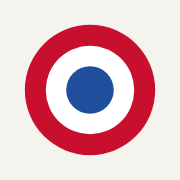
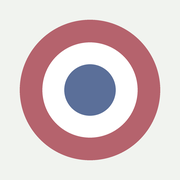
Visual identity v2: verdigris accent on stone paper, specimen hero, structured nav and footer

diff --git a/src/app.html b/src/app.html
@@ -3,8 +3,8 @@
 <meta charset="utf-8">
 <meta name="viewport" content="width=device-width, initial-scale=1, viewport-fit=cover">
 <meta name="color-scheme" content="light dark">
-<meta name="theme-color" content="#f5f3ee" media="(prefers-color-scheme: light)">
-<meta name="theme-color" content="#141518" media="(prefers-color-scheme: dark)">
+<meta name="theme-color" content="#f1f3ef" media="(prefers-color-scheme: light)">
+<meta name="theme-color" content="#111716" media="(prefers-color-scheme: dark)">
 <title>Legere - De quels candidats êtes-vous proche ? Présidentielle 2027</title>
 <meta name="description" content="Répondez à une vingtaine de propositions concrètes et découvrez de quels candidats à la présidentielle 2027 vous êtes le plus proche, et pourquoi. Sans inscription : vos réponses restent dans votre navigateur.">
 <link rel="canonical" href="https://legere.vandecatsije.com/">
@@ -42,48 +42,60 @@
 @font-face { font-family: "IBM Plex Sans"; font-style: italic; font-weight: 400; font-display: swap; src: url("fonts/plexsans-400i-latin.woff2") format("woff2"); unicode-range: U+0000-00FF, U+0131, U+0152-0153, U+02BB-02BC, U+02C6, U+02DA, U+02DC, U+0304, U+0308, U+0329, U+2000-206F, U+20AC, U+2122, U+2191, U+2193, U+2212, U+2215, U+FEFF, U+FFFD; }
 @font-face { font-family: "IBM Plex Sans"; font-style: italic; font-weight: 400; font-display: swap; src: url("fonts/plexsans-400i-latin-ext.woff2") format("woff2"); unicode-range: U+0100-02BA, U+02BD-02C5, U+02C7-02CC, U+02CE-02D7, U+02DD-02FF, U+0304, U+0308, U+0329, U+1D00-1DBF, U+1E00-1E9F, U+1EF2-1EFF, U+2020, U+20A0-20AB, U+20AD-20C0, U+2113, U+2C60-2C7F, U+A720-A7FF; }
 
-/* "Le bulletin": ink on paper, one narrow column, one question per screen.
-   The tricolore appears exactly twice, decoratively and symmetrically (the ribbon at the top edge and the cockade in the mark).
-   Every interactive element, every candidate and every score uses the same ink, so no colour ever maps onto a side. */
+/* "Le bulletin": ink on stone paper, one narrow column, one question per screen.
+   One accent, a verdigris teal (the patina of the Mariannes in town halls), marks only what the visitor does:
+   the primary button, the progress bar, the selected answer, focus. No French party owns that hue.
+   Candidates, scores and the answer scale stay in the ink family, so no colour ever maps onto a side.
+   The tricolore appears exactly twice, desaturated and decorative (the ribbon at the top edge and the cockade in the mark). */
 :root {
-  --paper: #f5f3ee;
+  --paper: #f1f3ef;
   --card: #ffffff;
-  --ink: #1b1d22;
-  --muted: #5d6168;
-  --line: #d8d6cf;
-  --soft: #ebe9e2;
-  --accent: #1b1d22;
-  --accent-ink: #f5f3ee;
-  --accent-soft: #e6e4dd;
-  --bleu: #1f4f9c;
+  --ink: #15201f;
+  --muted: #56625f;
+  --line: #d4dbd6;
+  --soft: #e5eae6;
+  --accent: #176b64;
+  --accent-ink: #ffffff;
+  --accent-soft: #dceee9;
+  --accent-strong: #11554f;
+  --accent-text: #146059;
+  --warn: #7a5a22;
+  --warn-soft: #f4ecd9;
+  --bleu: #5b6f99;
   --blanc: #ffffff;
-  --rouge: #c8102e;
+  --rouge: #b5636d;
+  --shadow: 0 1px 2px rgba(21, 32, 31, .06), 0 8px 24px -12px rgba(21, 32, 31, .18);
   --serif: "Spectral", Georgia, "Times New Roman", serif;
   --sans: "IBM Plex Sans", system-ui, -apple-system, "Segoe UI", sans-serif;
   --r: 12px;
+  --r-lg: 18px;
   --tap: 52px;
   color-scheme: light;
 }
 @media (prefers-color-scheme: dark) {
   :root:not([data-theme="light"]) {
-    --paper: #141518; --card: #1d1f24; --ink: #ecebe6; --muted: #a3a6ad; --line: #34373d; --soft: #24262c;
-    --accent: #ecebe6; --accent-ink: #141518; --accent-soft: #2d2f36;
-    --bleu: #3f6fc4; --blanc: #d9d7d0; --rouge: #d6394a;
+    --paper: #111716; --card: #192120; --ink: #e8ece9; --muted: #9faba6; --line: #2b3634; --soft: #1e2826;
+    --accent: #6fcbc1; --accent-ink: #0b1f1d; --accent-soft: #1a3330; --accent-strong: #8ddad1; --accent-text: #7fd3c9;
+    --warn: #d9b66c; --warn-soft: #2d2718;
+    --bleu: #7287b1; --blanc: #cfd5d0; --rouge: #bb717a;
+    --shadow: 0 1px 2px rgba(0, 0, 0, .3), 0 8px 24px -12px rgba(0, 0, 0, .6);
     color-scheme: dark;
   }
 }
 :root[data-theme="dark"] {
-  --paper: #141518; --card: #1d1f24; --ink: #ecebe6; --muted: #a3a6ad; --line: #34373d; --soft: #24262c;
-  --accent: #ecebe6; --accent-ink: #141518; --accent-soft: #2d2f36;
-  --bleu: #3f6fc4; --blanc: #d9d7d0; --rouge: #d6394a;
+  --paper: #111716; --card: #192120; --ink: #e8ece9; --muted: #9faba6; --line: #2b3634; --soft: #1e2826;
+  --accent: #6fcbc1; --accent-ink: #0b1f1d; --accent-soft: #1a3330; --accent-strong: #8ddad1; --accent-text: #7fd3c9;
+  --warn: #d9b66c; --warn-soft: #2d2718;
+  --bleu: #7287b1; --blanc: #cfd5d0; --rouge: #bb717a;
+  --shadow: 0 1px 2px rgba(0, 0, 0, .3), 0 8px 24px -12px rgba(0, 0, 0, .6);
   color-scheme: dark;
 }
 * { box-sizing: border-box; }
 html { -webkit-text-size-adjust: 100%; }
-body { margin: 0; background: var(--paper); color: var(--ink); font: 400 17px/1.5 var(--sans); min-height: 100dvh; display: flex; flex-direction: column; }
+body { margin: 0; background: var(--paper); color: var(--ink); font: 400 17px/1.5 var(--sans); min-height: 100dvh; display: flex; flex-direction: column; -webkit-font-smoothing: antialiased; }
 button { font: inherit; color: inherit; }
 img { display: block; max-width: 100%; }
-.ribbon { display: grid; grid-template-columns: 1fr 1fr 1fr; height: 5px; flex: none; }
+.ribbon { display: grid; grid-template-columns: 1fr 1fr 1fr; height: 4px; flex: none; }
 .ribbon i:nth-child(1) { background: var(--bleu); }
 .ribbon i:nth-child(2) { background: var(--blanc); }
 .ribbon i:nth-child(3) { background: var(--rouge); }
@@ -104,79 +116,111 @@ a { color: var(--ink); text-decoration: underline; text-decoration-color: var(--
 .label { font: 500 14px/1.35 var(--sans); color: var(--muted); }
 .num { font-variant-numeric: tabular-nums; }
 .sr { position: absolute; width: 1px; height: 1px; overflow: hidden; clip: rect(0 0 0 0); white-space: nowrap; }
-:focus-visible { outline: 2px solid var(--ink); outline-offset: 3px; }
+:focus-visible { outline: 2px solid var(--accent); outline-offset: 3px; }
 
 /* top bars */
-.top { display: flex; align-items: center; justify-content: space-between; gap: 12px; min-height: 64px; padding: 10px 0; }
-.brand { display: inline-flex; align-items: center; gap: 9px; font: 600 22px/1 var(--serif); letter-spacing: .005em; background: none; border: 0; padding: 8px 0; cursor: pointer; color: var(--ink); }
-.cockade { width: 22px; height: 22px; flex: none; }
-nav.links { display: flex; gap: 2px; }
-nav.links button { background: none; border: 0; padding: 10px 10px; min-height: 44px; color: var(--muted); font: 500 15px var(--sans); cursor: pointer; border-radius: 8px; }
-nav.links button[aria-current="page"] { color: var(--ink); }
+.top { display: flex; flex-wrap: wrap; align-items: center; justify-content: space-between; gap: 0 12px; min-height: 68px; padding: 12px 0; }
+.top nav.links { margin-left: auto; }
+.brand { display: inline-flex; align-items: center; gap: 10px; font: 600 23px/1 var(--serif); letter-spacing: .005em; background: none; border: 0; padding: 8px 0; cursor: pointer; color: var(--ink); }
+.cockade { width: 24px; height: 24px; flex: none; }
+nav.links { display: flex; gap: 4px; }
+nav.links button { background: none; border: 0; padding: 10px 12px; min-height: 44px; color: var(--muted); font: 500 15px var(--sans); cursor: pointer; border-radius: 999px; }
+nav.links button[aria-current="page"] { color: var(--accent-text); background: var(--accent-soft); }
 nav.links button { white-space: nowrap; }
 nav.links .short { display: none; }
-@media (max-width: 440px) { nav.links .full { display: none; } nav.links .short { display: inline; } }
-.qbar { display: flex; align-items: center; gap: 10px; min-height: 64px; padding: 10px 0; }
+@media (max-width: 480px) { nav.links .full { display: none; } nav.links .short { display: inline; } nav.links button { padding: 10px 10px; } }
+.qbar { display: flex; align-items: center; gap: 10px; min-height: 68px; padding: 12px 0; }
 .qbar .progress { flex: 1; }
 .icon-btn { width: 44px; height: 44px; border-radius: 50%; border: 0; background: transparent; cursor: pointer; display: grid; place-items: center; color: var(--ink); flex: none; }
 .icon-btn:disabled { opacity: .3; cursor: default; background: none; }
 .icon-btn svg { width: 24px; height: 24px; }
-.progress { height: 5px; background: var(--line); border-radius: 3px; overflow: hidden; }
-.progress > i { display: block; height: 100%; background: var(--ink); border-radius: 3px; transition: width .35s ease; }
+.progress { height: 6px; background: var(--line); border-radius: 3px; overflow: hidden; }
+.progress > i { display: block; height: 100%; background: var(--accent); border-radius: 3px; transition: width .35s ease; }
 .count { font: 500 14px var(--sans); color: var(--muted); min-width: 2.5ch; text-align: right; }
 
 /* buttons */
 .btn { appearance: none; border: 1.5px solid var(--ink); background: var(--ink); color: var(--paper); font: 600 17px var(--sans); min-height: var(--tap); padding: 12px 22px; border-radius: var(--r); cursor: pointer; width: 100%; display: inline-flex; align-items: center; justify-content: center; gap: 8px; text-align: center; }
 .btn.primary { background: var(--accent); border-color: var(--accent); color: var(--accent-ink); }
-.btn.ghost { background: transparent; color: var(--ink); border-color: var(--line); font-weight: 500; }
+.btn.ghost { background: var(--card); color: var(--ink); border-color: var(--line); font-weight: 500; }
 .btn.link { background: none; border: 0; color: var(--ink); text-decoration: underline; text-decoration-color: var(--muted); text-underline-offset: 3px; min-height: 44px; width: auto; padding: 8px 4px; font-weight: 500; }
 .btn:disabled { opacity: .45; cursor: default; }
 .btn.auto { width: auto; }
+.btn svg { width: 20px; height: 20px; flex: none; }
 
 /* answer options */
-.opts { display: flex; flex-direction: column; gap: 7px; }
+.opts { display: flex; flex-direction: column; gap: 8px; }
 .opt { width: 100%; min-height: var(--tap); border: 1.5px solid var(--line); background: var(--card); color: var(--ink); border-radius: var(--r); padding: 12px 16px; font: 500 17px/1.3 var(--sans); cursor: pointer; display: flex; align-items: center; gap: 14px; text-align: left; transition: border-color .12s, background .12s; }
-.opt .dot { width: 22px; height: 22px; border-radius: 50%; border: 2px solid var(--muted); flex: none; display: grid; place-items: center; }
+.opt .dot { width: 22px; height: 22px; border-radius: 50%; border: 2px solid var(--line); flex: none; display: grid; place-items: center; background: var(--card); }
 .opt .dot::after { content: ""; width: 10px; height: 10px; border-radius: 50%; background: transparent; }
-.opt.on { border-color: var(--ink); background: var(--accent-soft); }
-.opt.on .dot { border-color: var(--ink); }
-.opt.on .dot::after { background: var(--ink); }
+.opt.on { border-color: var(--accent); background: var(--accent-soft); box-shadow: inset 0 0 0 1px var(--accent); }
+.opt.on .dot { border-color: var(--accent); }
+.opt.on .dot::after { background: var(--accent); }
 .opt .sub { display: block; font-size: 14.5px; color: var(--muted); font-weight: 400; margin-top: 2px; }
 .opt .key { margin-left: auto; font: 500 12px var(--sans); color: var(--muted); border: 1px solid var(--line); border-radius: 5px; padding: 1px 6px; }
 .opt.lvl { flex: 1; justify-content: center; min-height: 44px; padding: 8px 6px; font-size: 15px; }
 .chip { border: 1.5px solid var(--line); background: var(--card); color: var(--muted); border-radius: 999px; padding: 10px 16px; min-height: 44px; font: 500 15px var(--sans); cursor: pointer; display: inline-flex; align-items: center; gap: 8px; }
 .chip svg { width: 18px; height: 18px; }
-.chip.on { border-color: var(--ink); color: var(--ink); background: var(--accent-soft); }
+.chip.on { border-color: var(--accent); color: var(--accent-text); background: var(--accent-soft); }
 .under { display: flex; justify-content: space-between; align-items: center; gap: 8px; flex-wrap: wrap; }
 
 /* statement */
-.q { display: flex; flex-direction: column; gap: 14px; animation: enter .22s ease-out; }
+.q { display: flex; flex-direction: column; gap: 16px; animation: enter .22s ease-out; }
 @keyframes enter { from { opacity: 0; transform: translateY(8px); } to { opacity: 1; transform: none; } }
-.statement { font: 400 clamp(22px, 5.6vw, 28px)/1.3 var(--serif); text-wrap: pretty; }
+.q > .label { display: inline-flex; align-self: flex-start; align-items: center; gap: 8px; color: var(--ink); font-weight: 500; }
+.q > .label::before { content: ""; width: 8px; height: 8px; border-radius: 50%; background: var(--accent); }
+.statement { font: 400 clamp(23px, 5.8vw, 29px)/1.3 var(--serif); text-wrap: pretty; }
 .term { cursor: pointer; -webkit-box-decoration-break: clone; box-decoration-break: clone; text-decoration: underline dotted var(--muted); text-decoration-thickness: 2px; text-underline-offset: 4px; border-radius: 3px; }
-.plain { background: var(--soft); border-radius: var(--r); padding: 12px 14px; display: flex; flex-direction: column; gap: 4px; font-size: 15.5px; line-height: 1.42; }
-.plain .label { color: var(--ink); font-weight: 600; font-size: 14px; }
+.plain { background: var(--card); border: 1px solid var(--line); border-left: 3px solid var(--accent); border-radius: 0 var(--r) var(--r) 0; padding: 12px 16px; display: flex; flex-direction: column; gap: 4px; font-size: 15.5px; line-height: 1.42; }
+.plain .label { color: var(--accent-text); font-weight: 600; font-size: 14px; }
 .plain .more { align-self: flex-start; background: none; border: 0; padding: 6px 0; color: var(--ink); font: 500 15px var(--sans); cursor: pointer; text-decoration: underline; text-decoration-color: var(--muted); text-underline-offset: 3px; min-height: 36px; }
 .kbd-hint { font-size: 13.5px; color: var(--muted); text-align: center; }
 kbd { font: 12px var(--sans); border: 1px solid var(--line); border-bottom-width: 2px; border-radius: 4px; padding: 0 5px; color: var(--muted); }
 
 /* home */
-.hero { display: flex; flex-direction: column; gap: 18px; padding-top: 18px; }
-.hero h1 { font-size: clamp(32px, 8.4vw, 46px); line-height: 1.08; }
-.hero .intro { font-size: 18px; }
+.hero { display: flex; flex-direction: column; gap: 18px; padding-top: 22px; }
+.hero h1 { font-size: clamp(34px, 8.6vw, 48px); line-height: 1.06; letter-spacing: -.01em; }
+.hero .intro { font-size: 18px; max-width: 34em; }
+.hero .cta { display: flex; flex-direction: column; gap: 10px; align-items: center; }
+.hero .cta .btn { max-width: 420px; }
+.hero .cta .small { text-align: center; }
+/* the specimen: one real proposition laid out as the slip the visitor will answer, stacked like a pile of bulletins */
+.specimen { position: relative; margin: 10px 0 6px; padding: 0 10px; }
+.specimen .slip { background: var(--card); border: 1px solid var(--line); border-radius: var(--r-lg); padding: 20px 22px 18px; display: flex; flex-direction: column; gap: 14px; box-shadow: var(--shadow); position: relative; }
+.specimen .slip::before, .specimen .slip::after { content: ""; position: absolute; inset: 0; z-index: -1; background: var(--card); border: 1px solid var(--line); border-radius: var(--r-lg); }
+.specimen .slip::before { transform: rotate(-2.4deg) translate(-8px, 6px); background: var(--soft); }
+.specimen .slip::after { transform: rotate(1.8deg) translate(8px, 10px); background: var(--paper); }
+.specimen .slip > .label { color: var(--accent-text); font-weight: 600; display: inline-flex; align-items: center; gap: 8px; }
+.specimen .slip > .label::before { content: ""; width: 8px; height: 8px; border-radius: 50%; background: var(--accent); }
+.specimen .text { font: 400 clamp(20px, 5vw, 24px)/1.3 var(--serif); text-wrap: pretty; }
+.specimen .scale { display: flex; align-items: center; gap: 10px; padding-top: 4px; }
+.specimen .scale span { font: 500 13.5px var(--sans); color: var(--muted); }
+.specimen .scale .dots { display: flex; gap: 6px; flex: 1; justify-content: center; }
+.specimen .scale i { width: 18px; height: 18px; border-radius: 50%; border: 2px solid var(--line); background: var(--card); }
+.specimen .scale i.on { border-color: var(--accent); background: var(--accent); box-shadow: inset 0 0 0 3px var(--card); }
+.steps { list-style: none; margin: 0; padding: 0; display: flex; flex-direction: column; gap: 14px; counter-reset: step; }
+.steps li { display: grid; grid-template-columns: 34px 1fr; gap: 14px; align-items: start; font-size: 16px; counter-increment: step; }
+.steps li::before { content: counter(step); width: 34px; height: 34px; border-radius: 50%; background: var(--accent-soft); color: var(--accent-text); font: 600 15px/34px var(--serif); text-align: center; }
+.steps b { display: block; font-weight: 600; }
 .facts { list-style: none; margin: 0; padding: 0; display: flex; flex-direction: column; gap: 10px; }
-.facts li { display: flex; gap: 12px; align-items: flex-start; font-size: 16px; }
-.facts svg { width: 22px; height: 22px; flex: none; margin-top: 2px; color: var(--muted); }
+.facts li { display: flex; gap: 12px; align-items: flex-start; font-size: 15.5px; color: var(--muted); }
+.facts svg { width: 20px; height: 20px; flex: none; margin-top: 2px; color: var(--accent-text); }
+.home-sec { display: flex; flex-direction: column; gap: 14px; padding-top: 36px; }
+.home-sec h2 { font-size: 22px; }
 .card { background: var(--card); border: 1px solid var(--line); border-radius: var(--r); padding: 18px; display: flex; flex-direction: column; gap: 12px; min-width: 0; }
 .card.soft { background: var(--soft); border-color: transparent; }
+.card.resume { border-color: var(--accent); box-shadow: var(--shadow); }
+.card.resume > .label { color: var(--accent-text); font-weight: 600; }
 .note { background: var(--soft); border-left: 3px solid var(--ink); border-radius: 0 var(--r) var(--r) 0; padding: 12px 14px; font-size: 15px; }
+.note.warn { background: var(--warn-soft); border-left-color: var(--warn); }
 
 /* footer */
-.foot { border-top: 1px solid var(--line); margin-top: 40px; padding: 22px 0 8px; display: flex; flex-direction: column; gap: 10px; font-size: 14px; color: var(--muted); }
-.foot nav { display: flex; flex-wrap: wrap; gap: 4px 18px; }
-.foot nav button { background: none; border: 0; padding: 6px 0; min-height: 36px; color: var(--ink); font: 500 14.5px var(--sans); cursor: pointer; text-decoration: underline; text-decoration-color: var(--muted); text-underline-offset: 3px; }
-.foot .mark { display: inline-flex; align-items: center; gap: 8px; color: var(--ink); font: 600 15px var(--serif); }
-.foot .mark .cockade { width: 16px; height: 16px; }
+.foot { border-top: 1px solid var(--line); margin-top: 48px; padding: 24px 0 8px; display: flex; flex-direction: column; gap: 14px; font-size: 14px; color: var(--muted); }
+.foot .foot-top { display: flex; flex-wrap: wrap; justify-content: space-between; align-items: center; gap: 4px 24px; }
+.foot nav { display: flex; flex-wrap: wrap; gap: 2px 14px; }
+.foot nav button { background: none; border: 0; padding: 6px 0; min-height: 36px; color: var(--ink); font: 500 14.5px var(--sans); cursor: pointer; text-decoration: underline; text-decoration-color: var(--line); text-underline-offset: 3px; }
+.foot .mark { display: inline-flex; align-items: center; gap: 8px; color: var(--ink); font: 600 17px var(--serif); background: none; border: 0; padding: 6px 0; cursor: pointer; }
+.foot .mark .cockade { width: 18px; height: 18px; }
+.foot .fine { display: flex; flex-wrap: wrap; gap: 4px 18px; font-size: 13.5px; }
 
 /* sheet (dialog) */
 dialog.sheet { border: 0; padding: 0; background: var(--card); color: var(--ink); border-radius: 18px 18px 0 0; width: 100%; max-width: 100%; margin: auto 0 0; max-height: 85vh; max-height: 85dvh; box-shadow: 0 -10px 40px rgba(0,0,0,.25); }
@@ -199,10 +243,15 @@ dialog.sheet .block .label { color: var(--ink); font-weight: 600; }
 .strength { display: grid; grid-template-columns: repeat(3, 1fr); gap: 8px; }
 .strength .opt { justify-content: center; text-align: center; padding: 10px 6px; font-size: 15px; }
 
-/* priorities */
-.prio { display: flex; flex-direction: column; gap: 12px; }
-.prio-row { display: flex; flex-direction: column; gap: 8px; padding-bottom: 12px; border-bottom: 1px solid var(--line); }
-.prio-row .lvls { display: flex; gap: 6px; }
+/* priorities: one segmented control per theme */
+.prio { display: flex; flex-direction: column; gap: 4px; }
+.prio-row { display: flex; flex-direction: column; gap: 8px; padding: 12px 0; border-bottom: 1px solid var(--line); }
+.prio-row > span { font-weight: 500; }
+.prio-row .lvls { display: flex; gap: 0; border: 1.5px solid var(--line); border-radius: var(--r); overflow: hidden; background: var(--card); }
+.prio-row .lvls .opt { border: 0; border-radius: 0; box-shadow: none; }
+.prio-row .lvls .opt + .opt { border-left: 1.5px solid var(--line); }
+.prio-row .lvls .opt.on { background: var(--accent-soft); color: var(--accent-text); font-weight: 600; }
+@media (min-width: 560px) { .prio-row { flex-direction: row; align-items: center; justify-content: space-between; } .prio-row .lvls { width: 280px; flex: none; } }
 
 /* results */
 .lead { background: var(--card); border: 1px solid var(--line); border-radius: 16px; padding: 22px 20px; display: flex; flex-direction: column; gap: 10px; }
@@ -261,12 +310,15 @@ select { font: 16px var(--sans); padding: 12px 40px 12px 14px; min-height: 52px;
 .credit { font-size: 13px; color: var(--muted); }
 
 /* long-form pages (method, legal) */
-.page h1 { font-size: clamp(28px, 7vw, 36px); }
-.page h2 { margin-top: 18px; font-size: 24px; }
+.page { padding-top: 6px; }
+.page > .label:first-child { color: var(--accent-text); font-weight: 600; margin-bottom: -8px; }
+.page h1 { font-size: clamp(30px, 7vw, 40px); }
+.page > p:first-of-type { font-size: 18px; max-width: 36em; }
+.page h2 { margin-top: 22px; padding-top: 18px; border-top: 1px solid var(--line); font-size: 25px; }
 .page h3 { margin-top: 6px; font-size: 19px; }
-.page p, .page li { font-size: 16px; }
+.page p, .page li { font-size: 16px; line-height: 1.55; }
 .page ul, .page ol { margin: 0; padding-left: 22px; display: flex; flex-direction: column; gap: 6px; }
-.page .panel { background: var(--card); border: 1px solid var(--line); border-radius: var(--r); padding: 18px; display: flex; flex-direction: column; gap: 10px; }
+.page .panel { background: var(--card); border: 1px solid var(--line); border-radius: var(--r-lg); padding: 20px 22px; display: flex; flex-direction: column; gap: 10px; }
 .page .panel h3 { margin-top: 0; }
 .page table { font-size: 14px; }
 .page .label { color: var(--muted); }
@@ -276,11 +328,12 @@ select { font: 16px var(--sans); padding: 12px 40px 12px 14px; min-height: 52px;
 @media (prefers-reduced-motion: reduce) { *, *::before, *::after { transition: none !important; animation: none !important; } }
 @media (hover: hover) {
   nav.links button:hover { color: var(--ink); background: var(--soft); }
+  nav.links button[aria-current="page"]:hover { color: var(--accent-text); background: var(--accent-soft); }
   .icon-btn:hover { background: var(--soft); }
   .btn.ghost:hover { border-color: var(--ink); }
-  .btn.primary:hover { opacity: .9; }
-  .opt:hover { border-color: var(--ink); }
-  .chip:hover { color: var(--ink); }
+  .btn.primary:hover { background: var(--accent-strong); border-color: var(--accent-strong); }
+  .opt:hover { border-color: var(--accent); }
+  .chip:hover { color: var(--ink); border-color: var(--accent); }
   .term:hover { background: var(--soft); }
   .refine button:hover { border-color: var(--ink); }
   .foot nav button:hover { text-decoration-color: var(--ink); }
@@ -581,14 +634,16 @@ const PHOTOS = CANDS.length > 0 && CANDS.every(c => c.photo && c.photo.src);
 function avatar(c, cls) { return PHOTOS ? `<img class="avatar ${cls || ""}" src="${esc(c.photo.src)}" alt="" width="40" height="40" loading="lazy">` : ""; }
 function brandBar() {
   const cur = id => st.screen === id ? ' aria-current="page"' : "";
+  /* the result is one tap away from every page once it exists; nothing in the top bar names a candidate */
   return `<header class="top"><button type="button" class="brand" id="nav-home" aria-label="Legere, accueil">${ICON.cockade}Legere</button>
-    <nav class="links" aria-label="Navigation"><button type="button" id="nav-cands"${cur("cands")}>Candidats</button><button type="button" id="nav-method"${cur("method")}><span class="full">Comment ça marche</span><span class="short" aria-hidden="true">Méthode</span></button></nav></header>`;
+    <nav class="links" aria-label="Navigation">${st.seenResults ? `<button type="button" id="nav-results"${cur("results")}><span class="full">Mon résultat</span><span class="short" aria-hidden="true">Résultat</span></button>` : ""}<button type="button" id="nav-cands"${cur("cands")}>Candidats</button><button type="button" id="nav-method"${cur("method")}><span class="full">Comment ça marche</span><span class="short" aria-hidden="true">Méthode</span></button></nav></header>`;
 }
 function footer() {
   return `<footer class="foot">
-    <nav aria-label="Pied de page"><button type="button" id="foot-method">Comment ça marche</button><button type="button" id="foot-cands">Fiches candidats</button>${HAS_LEGAL ? `<button type="button" id="foot-legal">Mentions légales et confidentialité</button>` : ""}</nav>
+    <div class="foot-top"><button type="button" class="mark" id="foot-home" aria-label="Legere, accueil">${ICON.cockade}Legere</button>
+    <nav aria-label="Pied de page"><button type="button" id="foot-method">Comment ça marche</button><button type="button" id="foot-cands">Fiches candidats</button>${HAS_LEGAL ? `<button type="button" id="foot-legal">Mentions légales et confidentialité</button>` : ""}</nav></div>
     <p>Legere est un projet civique indépendant et bénévole, sans lien avec un parti, un candidat ou une institution. Chaque candidat est traité avec les mêmes critères et le même niveau d'exigence sur les sources.</p>
-    <p>Vos réponses restent dans votre navigateur. Données au ${esc(DATA.meta.asof_fr)}.</p>
+    <div class="fine"><span>Vos réponses restent dans votre navigateur.</span><span>Données au ${esc(DATA.meta.asof_fr)}.</span></div>
   </footer>`;
 }
 function quizBar(progress, count, backDisabled) {
@@ -599,7 +654,8 @@ function quizBar(progress, count, backDisabled) {
 }
 function wireBrand() {
   const on = (id, fn) => { const el = $(id); if (el) el.onclick = fn; };
-  on("#nav-home", () => go("home"));
+  on("#nav-home", () => go("home")); on("#foot-home", () => go("home"));
+  on("#nav-results", () => go("results"));
   on("#nav-cands", () => go("cands")); on("#foot-cands", () => go("cands"));
   on("#nav-method", () => go("method")); on("#foot-method", () => go("method"));
   on("#foot-legal", () => go("legal"));
@@ -628,28 +684,48 @@ function wireTerms(root) {
 /* ------------------------------------------------------------------ screens */
 const screens = {};
 
+/* the specimen on the home page: the first proposition of this visitor's own order, so the preview is exactly what the first screen will show */
+function specimen() {
+  if (!st.queue) initQueue();
+  const s = SBY[st.queue[0]] || S[0];
+  return `<div class="specimen" aria-hidden="true"><div class="slip">
+    <span class="label">${esc(ABY[s.area].fr)}</span>
+    <p class="text">${esc(s.fr)}</p>
+    <div class="scale"><span>Contre</span><div class="dots"><i></i><i></i><i></i><i></i><i></i></div><span>Pour</span></div>
+  </div></div>`;
+}
 screens.home = () => {
   const n = nStatementsAnswered();
   const started = n > 0;
   return brandBar() + `<div class="hero">
-    <span class="label">Élection présidentielle d'avril 2027, ${CANDS.length} candidats</span>
+    <span class="label">Présidentielle d'avril 2027, ${CANDS.length} candidats</span>
     <h1>Avec quelles idées êtes-vous d'accord&nbsp;?</h1>
     <p class="intro">Des propositions concrètes, une à la fois. Dites si vous êtes d'accord ou non. À la fin, vous découvrez de quels candidats vous êtes le plus proche, et pourquoi.</p>
-    <ul class="facts">
-      <li>${ICON.clock}<span>Une dizaine de minutes. Le questionnaire s'arrête de lui-même dès que votre résultat est stable.</span></li>
-      <li>${ICON.eye}<span>Aucun candidat ni parti n'est nommé avant le résultat, pour que vous répondiez sur les idées.</span></li>
-      <li>${ICON.lock}<span>Vos réponses restent dans votre navigateur. Rien n'est envoyé.</span></li>
-    </ul>
-    ${started ? `<div class="card">
-      <span class="label">En cours</span>
+    ${started ? `<div class="card resume">
+      <span class="label">${st.seenResults ? "Votre résultat est prêt" : "Questionnaire en cours"}</span>
       <div class="progress" aria-hidden="true"><i style="width:${Math.min(100, n / MIN_STOP * 100)}%"></i></div>
-      <p>${st.seenResults ? "Votre résultat est disponible." : `Vous avez répondu à ${n} proposition${n > 1 ? "s" : ""}.`}</p>
+      <p>${st.seenResults ? `Vous avez répondu à ${n} proposition${n > 1 ? "s" : ""}. Vous pouvez revoir votre résultat ou l'affiner.` : `Vous avez répondu à ${n} proposition${n > 1 ? "s" : ""}. Reprenez là où vous vous êtes arrêté.`}</p>
       <button class="btn primary" id="start" type="button">${st.seenResults ? "Voir mon résultat" : "Reprendre"}</button>
       <button class="btn link" id="reset" type="button">Tout recommencer</button>
       <div id="reset-confirm" hidden class="note">Effacer toutes vos réponses ? <button class="btn link" id="reset-yes" type="button">Oui, effacer</button></div>
-    </div>` : `<button class="btn primary" id="start" type="button">Commencer</button>`}
-    <p class="muted small">Positions des candidats établies à partir de leurs programmes, déclarations et votes, chacune avec ses sources.</p>
-  </div>` + footer();
+    </div>` : specimen() + `<div class="cta"><button class="btn primary" id="start" type="button">Commencer</button><p class="muted small">Une dizaine de minutes, sans inscription.</p></div>`}
+  </div>
+  <section class="home-sec" aria-labelledby="how">
+    <h2 id="how">Comment ça se passe</h2>
+    <ol class="steps">
+      <li><span><b>Vous répondez à une vingtaine de propositions.</b>Une par écran, avec un rappel de la situation actuelle et les arguments de chaque côté.</span></li>
+      <li><span><b>Le questionnaire s'arrête de lui-même.</b>Dès que votre résultat est stable, il vous le propose ; vous pouvez continuer pour l'affiner.</span></li>
+      <li><span><b>Vous découvrez de qui vous êtes proche, et pourquoi.</b>Un classement avec sa marge d'incertitude, vos points de désaccord, et les sources pour tout vérifier.</span></li>
+    </ol>
+  </section>
+  <section class="home-sec" aria-labelledby="trust">
+    <h2 id="trust">Ce qui est garanti</h2>
+    <ul class="facts">
+      <li>${ICON.eye}<span>Aucun candidat ni parti n'est nommé avant le résultat, pour que vous répondiez sur les idées.</span></li>
+      <li>${ICON.lock}<span>Vos réponses restent dans votre navigateur. Rien n'est envoyé.</span></li>
+      <li>${ICON.clock}<span>Positions établies à partir des programmes, déclarations et votes, chacune avec ses sources, avec le même niveau d'exigence pour chaque candidat.</span></li>
+    </ul>
+  </section>` + footer();
 };
 screens.home.wire = () => {
   wireBrand();
